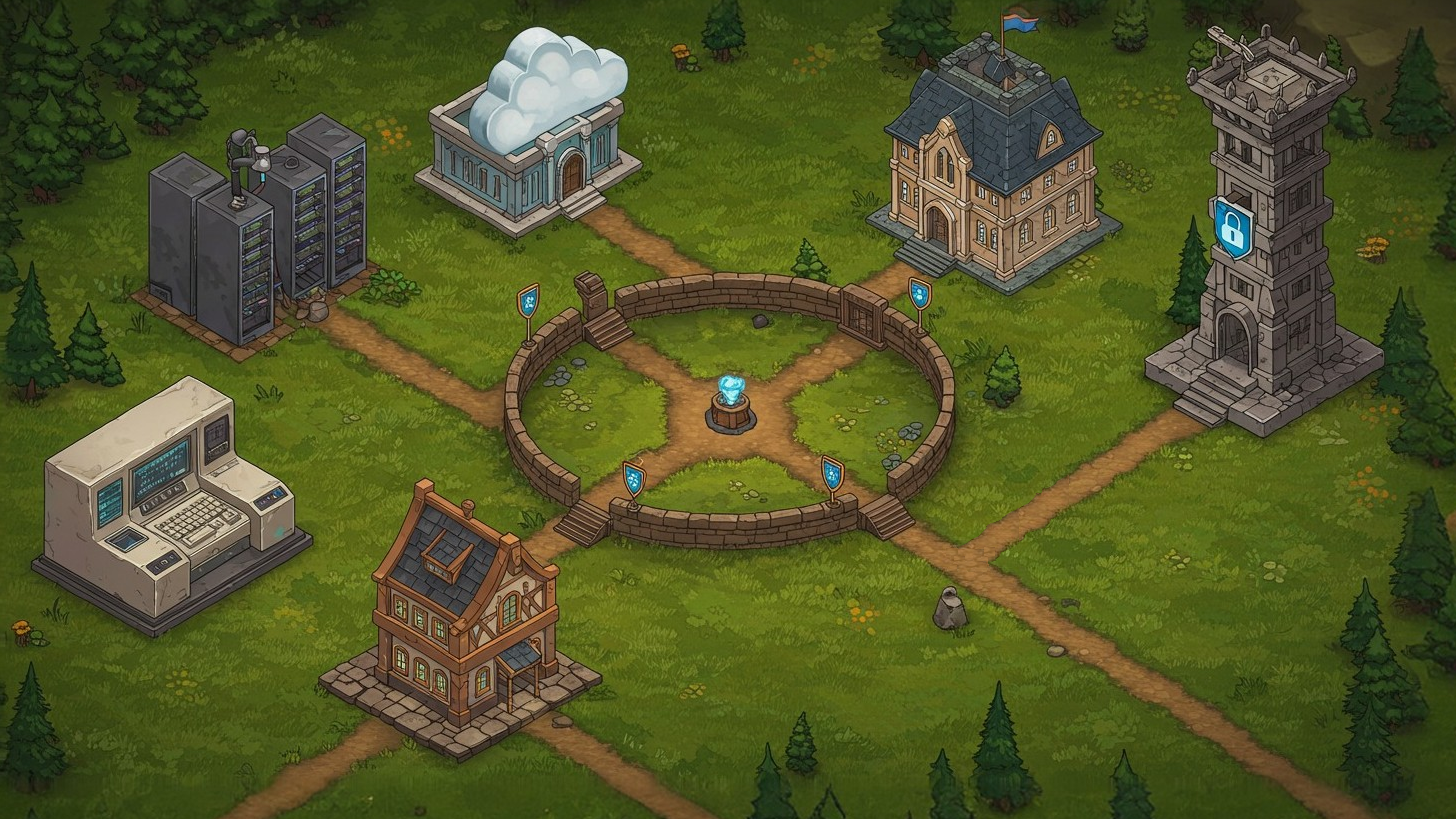
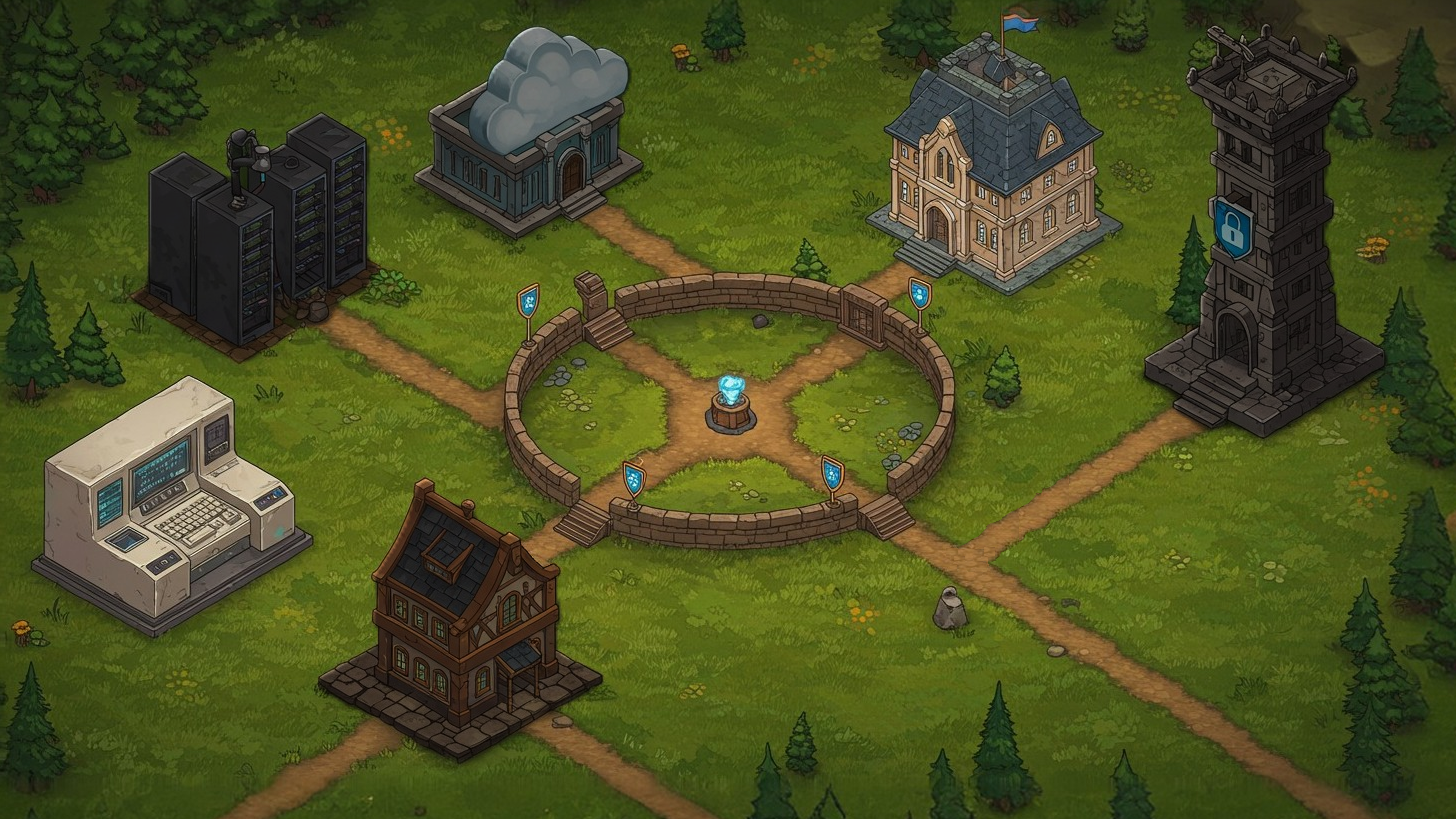
OPS-135 resources label OPS-136 building color OPS-139 reward symble,

Changed region(s): [[0.0927, 0.0305, 0.4636, 0.4579], [0.7727, 0.0305, 0.9581, 0.5495], [0.2163, 0.58, 0.4327, 0.9463]]

diff --git a/components/quest.html b/components/quest.html
@@ -5,7 +5,7 @@
       <span>Main Quest</span>
       <span class="tooltip">
         <i class="fa fa-question-circle"></i>
-        <span class="label">Finish the quest to earn electricity ⚡</span>
+        <span class="label tips">Finish the quest to earn electricity ⚡</span>
       </span>
     </div>
     <div class="quest-grid">
@@ -13,19 +13,19 @@
       <div class="quest">
           <span class="description">Finish 3 AI training</span>
           <span class="progress">0/3</span>
-          <span class="reward">10 ⚡</span>
+          <span class="reward">+10 ⚡</span>
           <button class="quest-btn">Go to quest</button>
       </div>
       <div class="quest">
           <span class="description">Finish 1 Arena knowledge contest</span>
           <span class="progress">0/1</span>
-          <span class="reward">10 ⚡</span>
+          <span class="reward">+10 ⚡</span>
           <button class="quest-btn">Go to quest</button>
       </div>
       <div class="quest">
           <span class="description">Upgrade AI center at Academy</span>
           <span class="progress">0/1</span>
-          <span class="reward">10 ⚡</span>
+          <span class="reward">+10 ⚡</span>
           <button class="quest-btn">Go to quest</button>
       </div>
     </div>
@@ -36,7 +36,7 @@
       <span>Side Quest</span>
       <span class="tooltip">
         <i class="fa fa-question-circle"></i>
-        <span class="label">Finish the quest to earn electricity ⚡</span>
+        <span class="label tips">Finish the quest to earn electricity ⚡</span>
       </span>
     </div>
     <div class="quest-grid">
@@ -44,31 +44,31 @@
       <div class="quest">
           <span class="description">Change your name at Profile</span>
           <span class="progress">0/1</span>
-          <span class="reward">10 ⚡</span>
+          <span class="reward">+10 ⚡</span>
           <button class="quest-btn">Go to quest</button>
       </div>
       <div class="quest">
           <span class="description">Read 3 News</span>
           <span class="progress">0/3</span>
-          <span class="reward">10 ⚡</span>
+          <span class="reward">+10 ⚡</span>
           <button class="quest-btn">Go to quest</button>
       </div>
       <div class="quest">
           <span class="description">Finish 2 Insight Ledger</span>
           <span class="progress">0/2</span>
-          <span class="reward">10 ⚡</span>
+          <span class="reward">+10 ⚡</span>
           <button class="quest-btn">Go to quest</button>
       </div>
       <div class="quest">
           <span class="description">Earn 30 electricity ⚡</span>
           <span class="progress">0/30</span>
-          <span class="reward">10 ⚡</span>
+          <span class="reward">+10 ⚡</span>
           <button class="quest-btn">Go to quest</button>
       </div>
       <div class="quest">
           <span class="description">Earn 30 raw data 📄</span>
           <span class="progress">0/30</span>
-          <span class="reward">10 ⚡</span>
+          <span class="reward">+10 ⚡</span>
           <button class="quest-btn">Go to quest</button>
       </div>
     </div>
@@ -145,7 +145,7 @@
     display: block;
   }
 
-  .label {
+  .label.tips {
     display: none; /* hide by default */
     position: absolute;
     top: -30px;
@@ -175,7 +175,7 @@
     display: flex;
     align-items: center;
     gap: 0.5rem;
-    background-color: rgba(255, 255, 255, 0.5);
+    background-color: rgba(255, 255, 255, 0.7);
     border-radius: 0.5rem;
     padding: 0.5rem;
   }
@@ -203,7 +203,7 @@
   .reward {
     font-size: 0.875rem; /* Smaller font size */
     color: black; 
-    width: 40px; /* Fixed width for reward */
+    width: 50px; /* Fixed width for reward */
     text-shadow: 1px 1px 15px black;
   }
 

diff --git a/index.html b/index.html
@@ -16,11 +16,50 @@
             <div id="village-level">💻 AI Center Level: <span id="village-level-count">0</span></div>
           </div>
           <div class="right-resources">
-            <div class="resources" id="raw-data">📄 <span id="raw-data-count">0</span><span class="label">Raw Data</span></div>
-            <div class="resources" id="data-packet">📊 <span id="data-packet-count">0</span><span class="label">Data Packet</span></div>
-            <div class="resources" id="security-token">🔐 <span id="security-token-count">0</span><span class="label">Security Token</span></div>
-            <div class="resources" id="processing-unit">⚙ <span id="processing-unit-count">0</span><span class="label">Processing Unit</span></div>
-            <div class="resources" id="electricity">⚡ <span id="electricity-count">0</span><span class="label">Electricity</span></div>
+
+            <span class="tooltip">
+              <div class="resources" id="raw-data">📄 <span id="raw-data-count">0</span></div>
+              <span class="resources label">
+                Raw Data 📄 are used to upgrade AI Center or attend Arena<br><br>
+                Get 📄 from Academy AI course or read the News<br>
+                Attend Arena to compete and earn 📄
+              </span>
+            </span>
+
+            <span class="tooltip">
+              <div class="resources" id="data-packet">📊 <span id="data-packet-count">0</span></div>
+              <span class="resources label">
+                Data Packet 📊 are used to upgrade Data Center or attend Arena<br><br>
+                Get 📊 from Academy data course or read the News<br>
+                Attend Arena to compete and earn 📊
+              </span>
+            </span>
+
+            <span class="tooltip">
+              <div class="resources" id="security-token">🔐 <span id="security-token-count">0</span></div>
+              <span class="resources label">
+                Security Token 🔐 are used to upgrade Security System or attend Arena<br><br>
+                Get 🔐 from Academy cybersecurity course or read the News<br>
+                Attend Arena to compete and earn 🔐
+              </span>
+            </span>
+
+            <span class="tooltip">
+              <div class="resources" id="processing-unit">⚙ <span id="processing-unit-count">0</span></div>
+              <span class="resources label">
+                Processing Unit ⚙ are used to upgrade Cloud Center or attend Arena<br><br>
+                Get ⚙ from Academy cloud course or read the News<br>
+                Attend Arena to compete and earn ⚙
+              </span>
+            </span>
+
+            <span class="tooltip">
+              <div class="resources" id="electricity">⚡ <span id="electricity-count">0</span></div>
+              <span class="resources label">
+                Electricity ⚡ are used in Academy course learning<br><br>
+                Get electricity from Quest reward or complete Insight Ledger
+              </span>
+            </span>
           </div>
     </header>
 

diff --git a/components/news.html b/components/news.html
@@ -5,38 +5,38 @@
       <span>News</span>
       <span class="tooltip">
         <i class="fa fa-question-circle"></i>
-        <span class="label">Read the latest news to earn resources 📦</span>
+        <span class="label tips">Read the latest news to earn resources 📦</span>
     </div>
     <div class="news-grid">
       <!-- Single Entry -->
       <div class="news">
           <span class="question" id="ai_module01_part06">Human 2.0 Is Coming Faster Than You Think.</span>
-          <span class="reward">10 📄</span>
+          <span class="reward">+10 📄</span>
           <button class="news-btn">Know more</button>
       </div>
       <div class="news">
           <span class="question" id="ai_module03_part02">The Future of Data Revolution will be Unstructured Data</span>
-          <span class="reward">10 📄</span>
+          <span class="reward">+10 📄</span>
           <button class="news-btn">Know more</button>
       </div>
       <div class="news">
           <span class="question" id="ai_module07_knowmore01">What is artificial intelligence (AI)?</span>
-          <span class="reward">10 📄</span>
+          <span class="reward">+10 📄</span>
           <button class="news-btn">Know more</button>
       </div>
       <div class="news">
           <span class="question" id="ai_module07_knowmore02">Distinguishing between Narrow AI, General AI and Super AI</span>
-          <span class="reward">10 📄</span>
+          <span class="reward">+10 📄</span>
           <button class="news-btn">Know more</button>
       </div>
       <div class="news">
           <span class="question" id="ai_module07_knowmore03">What is generative AI?</span>
-          <span class="reward">10 📄</span>
+          <span class="reward">+10 📄</span>
           <button class="news-btn">Know more</button>
       </div>
       <div class="news">
           <span class="question" id="ai_module07_knowmore04">Can AI help Climate Change?</span>
-          <span class="reward">10 📄</span>
+          <span class="reward">+10 📄</span>
           <button class="news-btn">Know more</button>
       </div>
     </div>
@@ -113,7 +113,7 @@
   .tooltip:hover .label {
     display: block;
   }
-  .label {
+  .label.tips {
     display: none; /* hide by default */
     position: absolute;
     top: -30px;
@@ -142,7 +142,7 @@
     display: flex;
     align-items: center;
     gap: 0.5rem;
-    background-color: rgba(255, 255, 255, 0.5);
+    background-color: rgba(255, 255, 255, 0.7);
     border-radius: 0.5rem;
     padding: 0.5rem;
   }
@@ -157,7 +157,7 @@
   .reward {
     font-size: 0.875rem; /* Smaller font size */
     color: black; 
-    width: 40px; /* Fixed width for reward */
+    width: 50px; /* Fixed width for reward */
     text-shadow: 1px 1px 15px black;
   }
 

diff --git a/components/insight.html b/components/insight.html
@@ -5,34 +5,34 @@
       <span>Insight Ledger</span>
       <span class="tooltip">
         <i class="fa fa-question-circle"></i>
-        <span class="label">Write insights to earn electricity ⚡</span>
+        <span class="label tips">Write insights to earn electricity ⚡</span>
       </span>
     </div>
     <div class="insight-grid">
       <!-- Single Entry -->
       <div class="insight">
           <span class="question" id="ai_module01_part02">How would you describe what AI does?</span>
-          <span class="reward">10 ⚡</span>
+          <span class="reward">+10 ⚡</span>
           <button class="insight-btn">Write something</button>
       </div>
       <div class="insight">
           <span class="question" id="ai_module04_part03">If ML offers only probabilities, who makes the final decision?</span>
-          <span class="reward">10 ⚡</span>
+          <span class="reward">+10 ⚡</span>
           <button class="insight-btn">Write something</button>
       </div>
       <div class="insight">
           <span class="question" id="ai_module06_part02_q1">How have you experienced Narrow AI in your life?</span>
-          <span class="reward">10 ⚡</span>
+          <span class="reward">+10 ⚡</span>
           <button class="insight-btn">Write something</button>
       </div>
       <div class="insight">
           <span class="question" id="ai_module06_part02_q2">How have you experienced Broad AI in your life?</span>
-          <span class="reward">10 ⚡</span>
+          <span class="reward">+10 ⚡</span>
           <button class="insight-btn">Write something</button>
       </div>
       <div class="insight">
           <span class="question" id="ai_module06_part02_q3">How do you expect to experience General AI in your life?</span>
-          <span class="reward">10 ⚡</span>
+          <span class="reward">+10 ⚡</span>
           <button class="insight-btn">Write something</button>
       </div>
     </div>
@@ -109,7 +109,7 @@
     display: block;
   }
 
-  .label {
+  .label.tips {
     display: none; /* hide by default */
     position: absolute;
     top: -30px;
@@ -139,7 +139,7 @@
     display: flex;
     align-items: center;
     gap: 0.5rem;
-    background-color: rgba(255, 255, 255, 0.5);
+    background-color: rgba(255, 255, 255, 0.7);
     border-radius: 0.5rem;
     padding: 0.5rem;
   }
@@ -154,7 +154,7 @@
   .reward {
     font-size: 0.875rem; /* Smaller font size */
     color: black; 
-    width: 40px; /* Fixed width for reward */
+    width: 50px; /* Fixed width for reward */
     text-shadow: 1px 1px 15px black;
   }
 

diff --git a/css/styles.css b/css/styles.css
@@ -38,7 +38,31 @@
     white-space: nowrap; /* keep each resource label and count on one line */
   }
 
-  .label {
+  .tooltip {
+    position: relative; /* make label position absolute relative to this */
+    display: inline-block;
+  }
+
+  .tooltip:hover .label {
+    display: block;
+  }
+
+  .resources.label {
+    display: none; /* hide by default */
+    position: absolute;
+    top: 100%; /* position below the tooltip */
+    transform: translateX(-90%);
+    background-color: black;
+    color: #fff;
+    padding: 4px 8px;
+    font-size: 1rem;
+    width: 350px; /* fixed width for tooltip */
+    border-radius: 4px;
+    /* white-space: nowrap; */
+    z-index: 100;
+  }
+
+  .building.label {
     display: none;
     position: absolute;
     top: 2.5rem;
@@ -53,9 +77,9 @@
     z-index: 20;
   }
 
-  .resources:hover .label {
+  /* .resources:hover .label {
     display: block;
-  }
+  } */
 
   /* Grid Layout */
   .main-grid {

diff --git a/components/building/ai.html b/components/building/ai.html
@@ -14,7 +14,7 @@
         <img src="./assets/images/avatar/npc_academy_mentor.png" alt="Elder Henry">
         <p class="npc-name">Elder Henry</p>
       </div>      
-      <p class="npc-dialogue">Welcome, Tribal Leader. I am Elder Henry, guardian of the AI Center. <br><br>In this building, you can strengthen our AI, revisit the teachings that shape our tribe, or test your mastery once more. Choose your path wisely—your actions below will guide our future.</p>
+      <p class="npc-dialogue">Welcome, Tribal Leader. I am Elder Henry, guardian of the AI Center. <br><br>In this building, you can strengthen our AI Center, revisit the teachings that shape our tribe, or test your mastery once more. Choose your path wisely—your actions below will guide our future.</p>
     </div>
 
     <div class="building-grid">

diff --git a/readme.md b/readme.md
@@ -1,5 +1,5 @@
 # Project title
-Waraick Business School External Dissertation
+Warwick Business School External Dissertation
 
 IBM SkillsBuild Platform Innovation - Strategy Game Learning Experience
 
